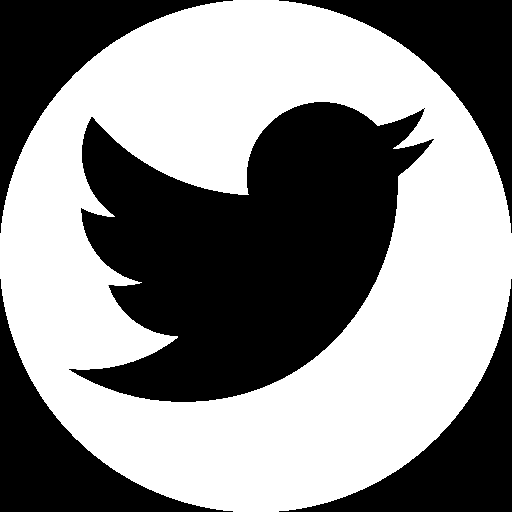
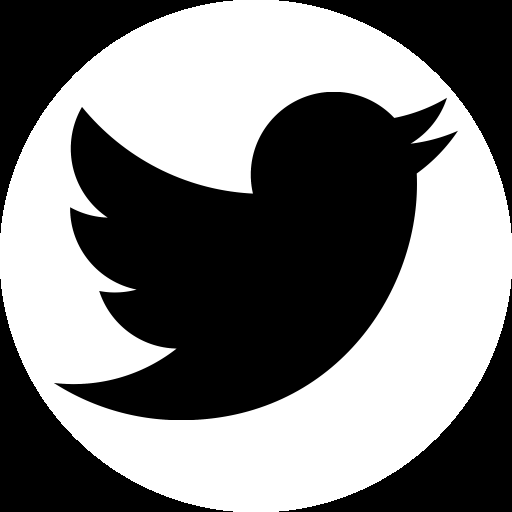
restyled the footer

diff --git a/src/components/footer.js b/src/components/footer.js
@@ -1,6 +1,6 @@
 import React from 'react';
 import {graphql, useStaticQuery, Link} from 'gatsby';
-import { footerHeight, smallScreenWidth } from "../style/layoutStyle";
+import { footerHeight, smallScreenWidth, initContentWidth } from "../style/layoutStyle";
 import { mainColour } from '../style/themeStyle';
 import { getCurrentUrlPathname } from '../utility/navigation';
 import { document } from "browser-monads";
@@ -14,32 +14,41 @@ import twitterLogo from '../images/twitter-icon.png';
 const FooterWrapper = styled.footer`
   position: relative;
   width: 100%;
-  padding: 0 !important;
+  padding: 0 0 10px 0 !important;
   clear: both;
   height: ${footerHeight}px;
-  margin-top: -${footerHeight}px;
+  margin-top: -${footerHeight+10}px;
   background-color: black;
+  color: white;
   display: flex;
-  flex-direction: column;
+  flex-direction: row;
   .footer-container{
     display: flex;
     padding: 0px 10px;
     padding-bottom: 10px;
     flex-direction: column;
-    width: 50%;
     background-color: black;
+    flex-grow: 1;
   }
-  .left-footer-container{
-    text-align: right !important;
-    align-content: right;
-    align-self: right;
+  .contacts-entry{
+    margin: 0px;
   }
   #footer-links-container{
     display: flex;
     flex-direction: row;
     justify-content: center;
-    width: 100%;
+    width: ${initContentWidth}px;
+    margin: 0 auto;
   }
+  @media screen and (max-width: ${initContentWidth}px){
+    .footer-container{
+      width: 100%;
+    }
+    #footer-links-container{
+      width: 100%;
+    }
+  }
+
   @media screen and (max-width: ${smallScreenWidth}px){
     flex-direction: column;
     .footer-container{
@@ -55,9 +64,7 @@ const FooterWrapper = styled.footer`
 `
 
 const FooterLink = styled(Link)`
-  display: relative;
-  flex-direction: column;
-  width: auto;
+  display: inline-block;
   color: ${props => props.selected ? mainColour : `white`};
   text-decoration: none !important;
   :hover{
@@ -67,9 +74,9 @@ const FooterLink = styled(Link)`
 
 const SocialMediaLogoWrapper = styled.div`
   display: flex;
-  padding-top: 10px;
-  width: 100%;
-  justify-content: center;
+  position: relative;
+  padding: 10px;
+  left: -20px;
   .logo{
     background-color: white;
     margin: 0px 20px;
@@ -80,14 +87,18 @@ const SocialMediaLogoWrapper = styled.div`
   a:hover .logo{
     background-color: ${mainColour};
   }
+  @media screen and (max-width: ${smallScreenWidth}px){
+    justify-content: center;
+    left: 0px;
+  }
 `
 
-const Footer = ({ siteUrl }) => {
+const Footer = () => {
     const data = useStaticQuery(graphql`
         query{
         allWordpressWpApiMenusMenusItems(filter: {
               name: {
-                  eq: "Footer"
+                  eq: "Legal"
                 }
             }){
           edges{
@@ -103,25 +114,29 @@ const Footer = ({ siteUrl }) => {
       }`);
     return (
       <FooterWrapper>
-        <SocialMediaLogoWrapper>
-          <a href="https://www.linkedin.com/in/marc-philippe-beaujean-5ab27815a/" target="_blank" rel="noopener noreferrer"><img className="logo" src={linkedInLogo} alt="LinkedIn Logo" /></a>
-          <a href="https://www.youtube.com/channel/UCrGAw9i5HoaByeiQAV5FaLA?guided_help_flow=3" target="_blank" rel="noopener noreferrer"><img className="logo" src={youtubeLogo} alt="YouTube Logo" /></a>
-          <a href="https://github.com/marcphilippebeaujean-abertay" target="_blank" rel="noopener noreferrer"><img className="logo" src={githubLogo} alt="GitHub Logo" /></a>
-          <a href="https://twitter.com/MarcBeaujean" target="_blank" rel="noopener noreferrer"><img className="logo" src={twitterLogo} alt="Twitter Logo" /></a>
-        </SocialMediaLogoWrapper>
         <div id="footer-links-container">
-          <div className={`left-footer-container footer-container`}>
+          <div className="footer-container">
             <p><b>Legal</b></p>
-            {data.allWordpressWpApiMenusMenusItems.edges[0].node.items.map((item, index) =>
-                    <FooterLink to={`/${item.object_slug}`}
+            {data.allWordpressWpApiMenusMenusItems.edges[0].node.items.map(item =>
+                    <div><FooterLink to={`/${item.object_slug}`}
                               key={item.title}
                               selected={item.object_slug === getCurrentUrlPathname(document)} >
                               {item.title}
-                    </FooterLink>
+                    </FooterLink></div>
             )}
           </div>
+          <div className="footer-container">
+            <p><b>Contact</b></p>
+            <p className="contacts-entry">Marc Philippe Beaujean</p>
+            <p className="contacts-entry">marcphilippebeaujean@gmail.com</p>
+            <SocialMediaLogoWrapper>
+              <a href="https://www.linkedin.com/in/marc-philippe-beaujean-5ab27815a/" target="_blank" rel="noopener noreferrer"><img className="logo" src={linkedInLogo} alt="LinkedIn Logo" /></a>
+              <a href="https://www.youtube.com/channel/UCrGAw9i5HoaByeiQAV5FaLA?guided_help_flow=3" target="_blank" rel="noopener noreferrer"><img className="logo" src={youtubeLogo} alt="YouTube Logo" /></a>
+              <a href="https://github.com/marcphilippebeaujean-abertay" target="_blank" rel="noopener noreferrer"><img className="logo" src={githubLogo} alt="GitHub Logo" /></a>
+              <a href="https://twitter.com/MarcBeaujean" target="_blank" rel="noopener noreferrer"><img className="logo" src={twitterLogo} alt="Twitter Logo" /></a>
+            </SocialMediaLogoWrapper>
+          </div>
         </div>
-        
       </FooterWrapper>)
     };
 

diff --git a/src/components/sidebar.js b/src/components/sidebar.js
@@ -10,7 +10,7 @@ const sidebarWidthPercent = 100-mainContentWidthPercent;
 const SidebarWrapper = styled.aside`
     z-index: 0;
     overflow: hidden;
-    min-height: 80vh;
+    min-height: 50vh;
     position: absolute;
     margin-left: calc(${mainContentWidthPercent}% + ${smallScreenSidePadding}px);
     width: calc(${sidebarWidthPercent}% - ${smallScreenSidePadding}px);
